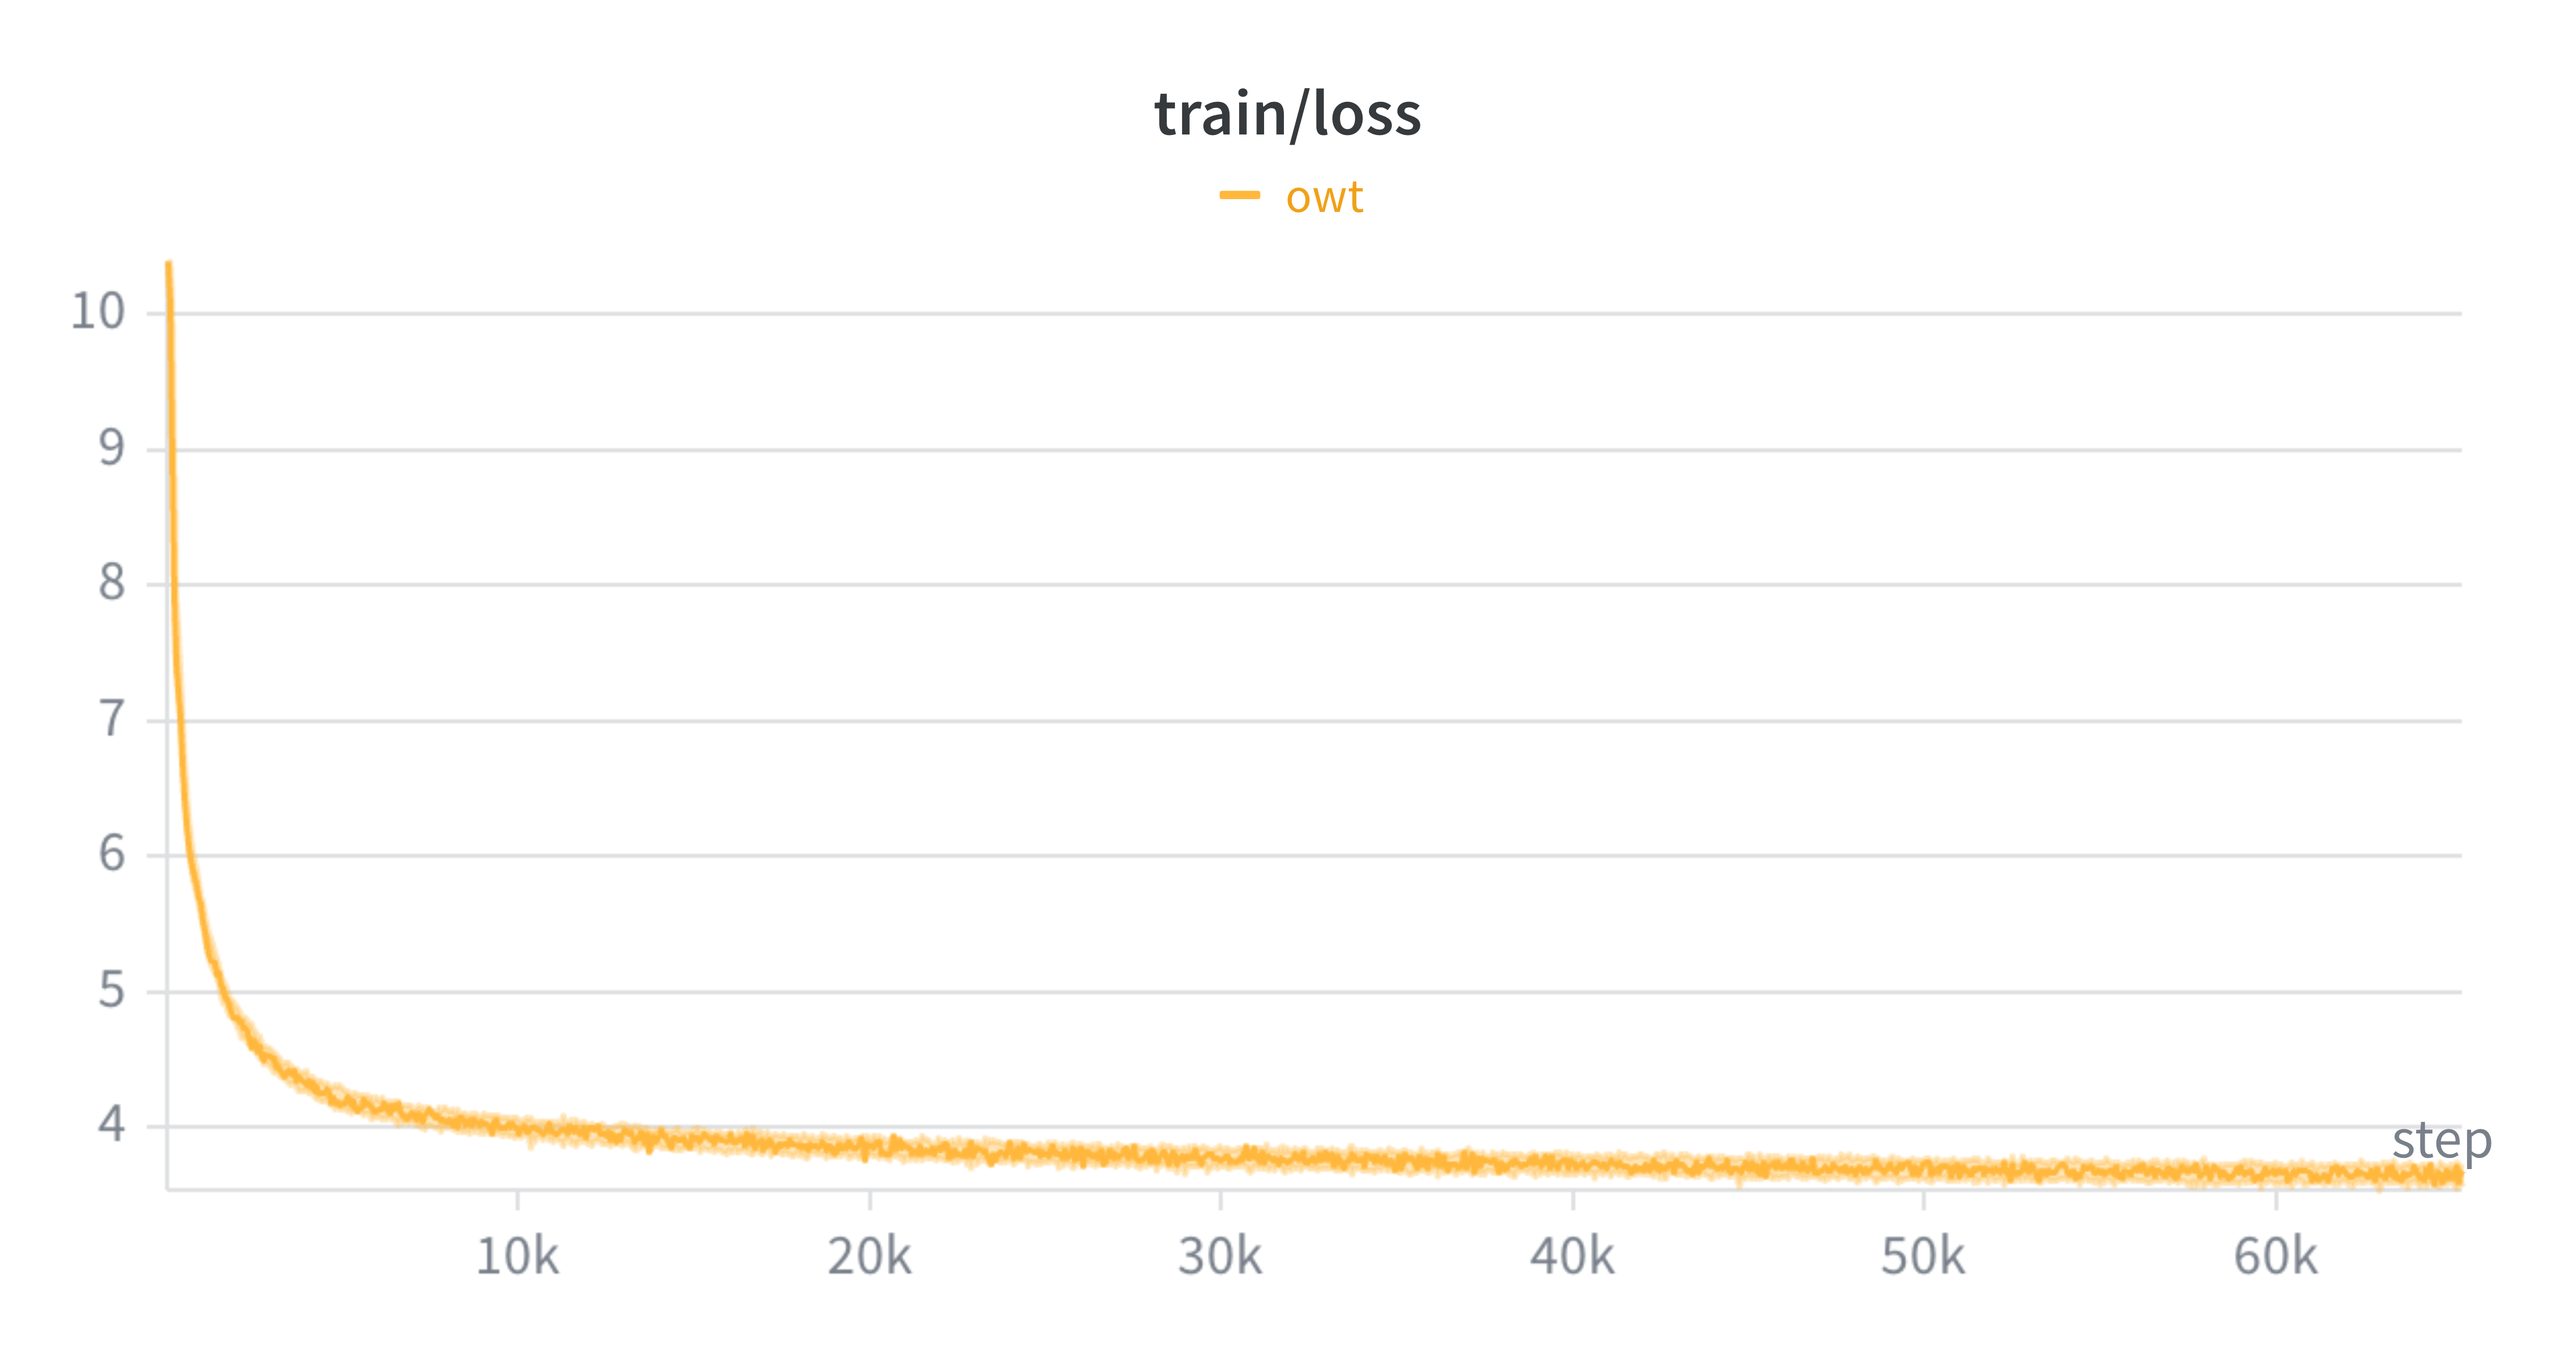
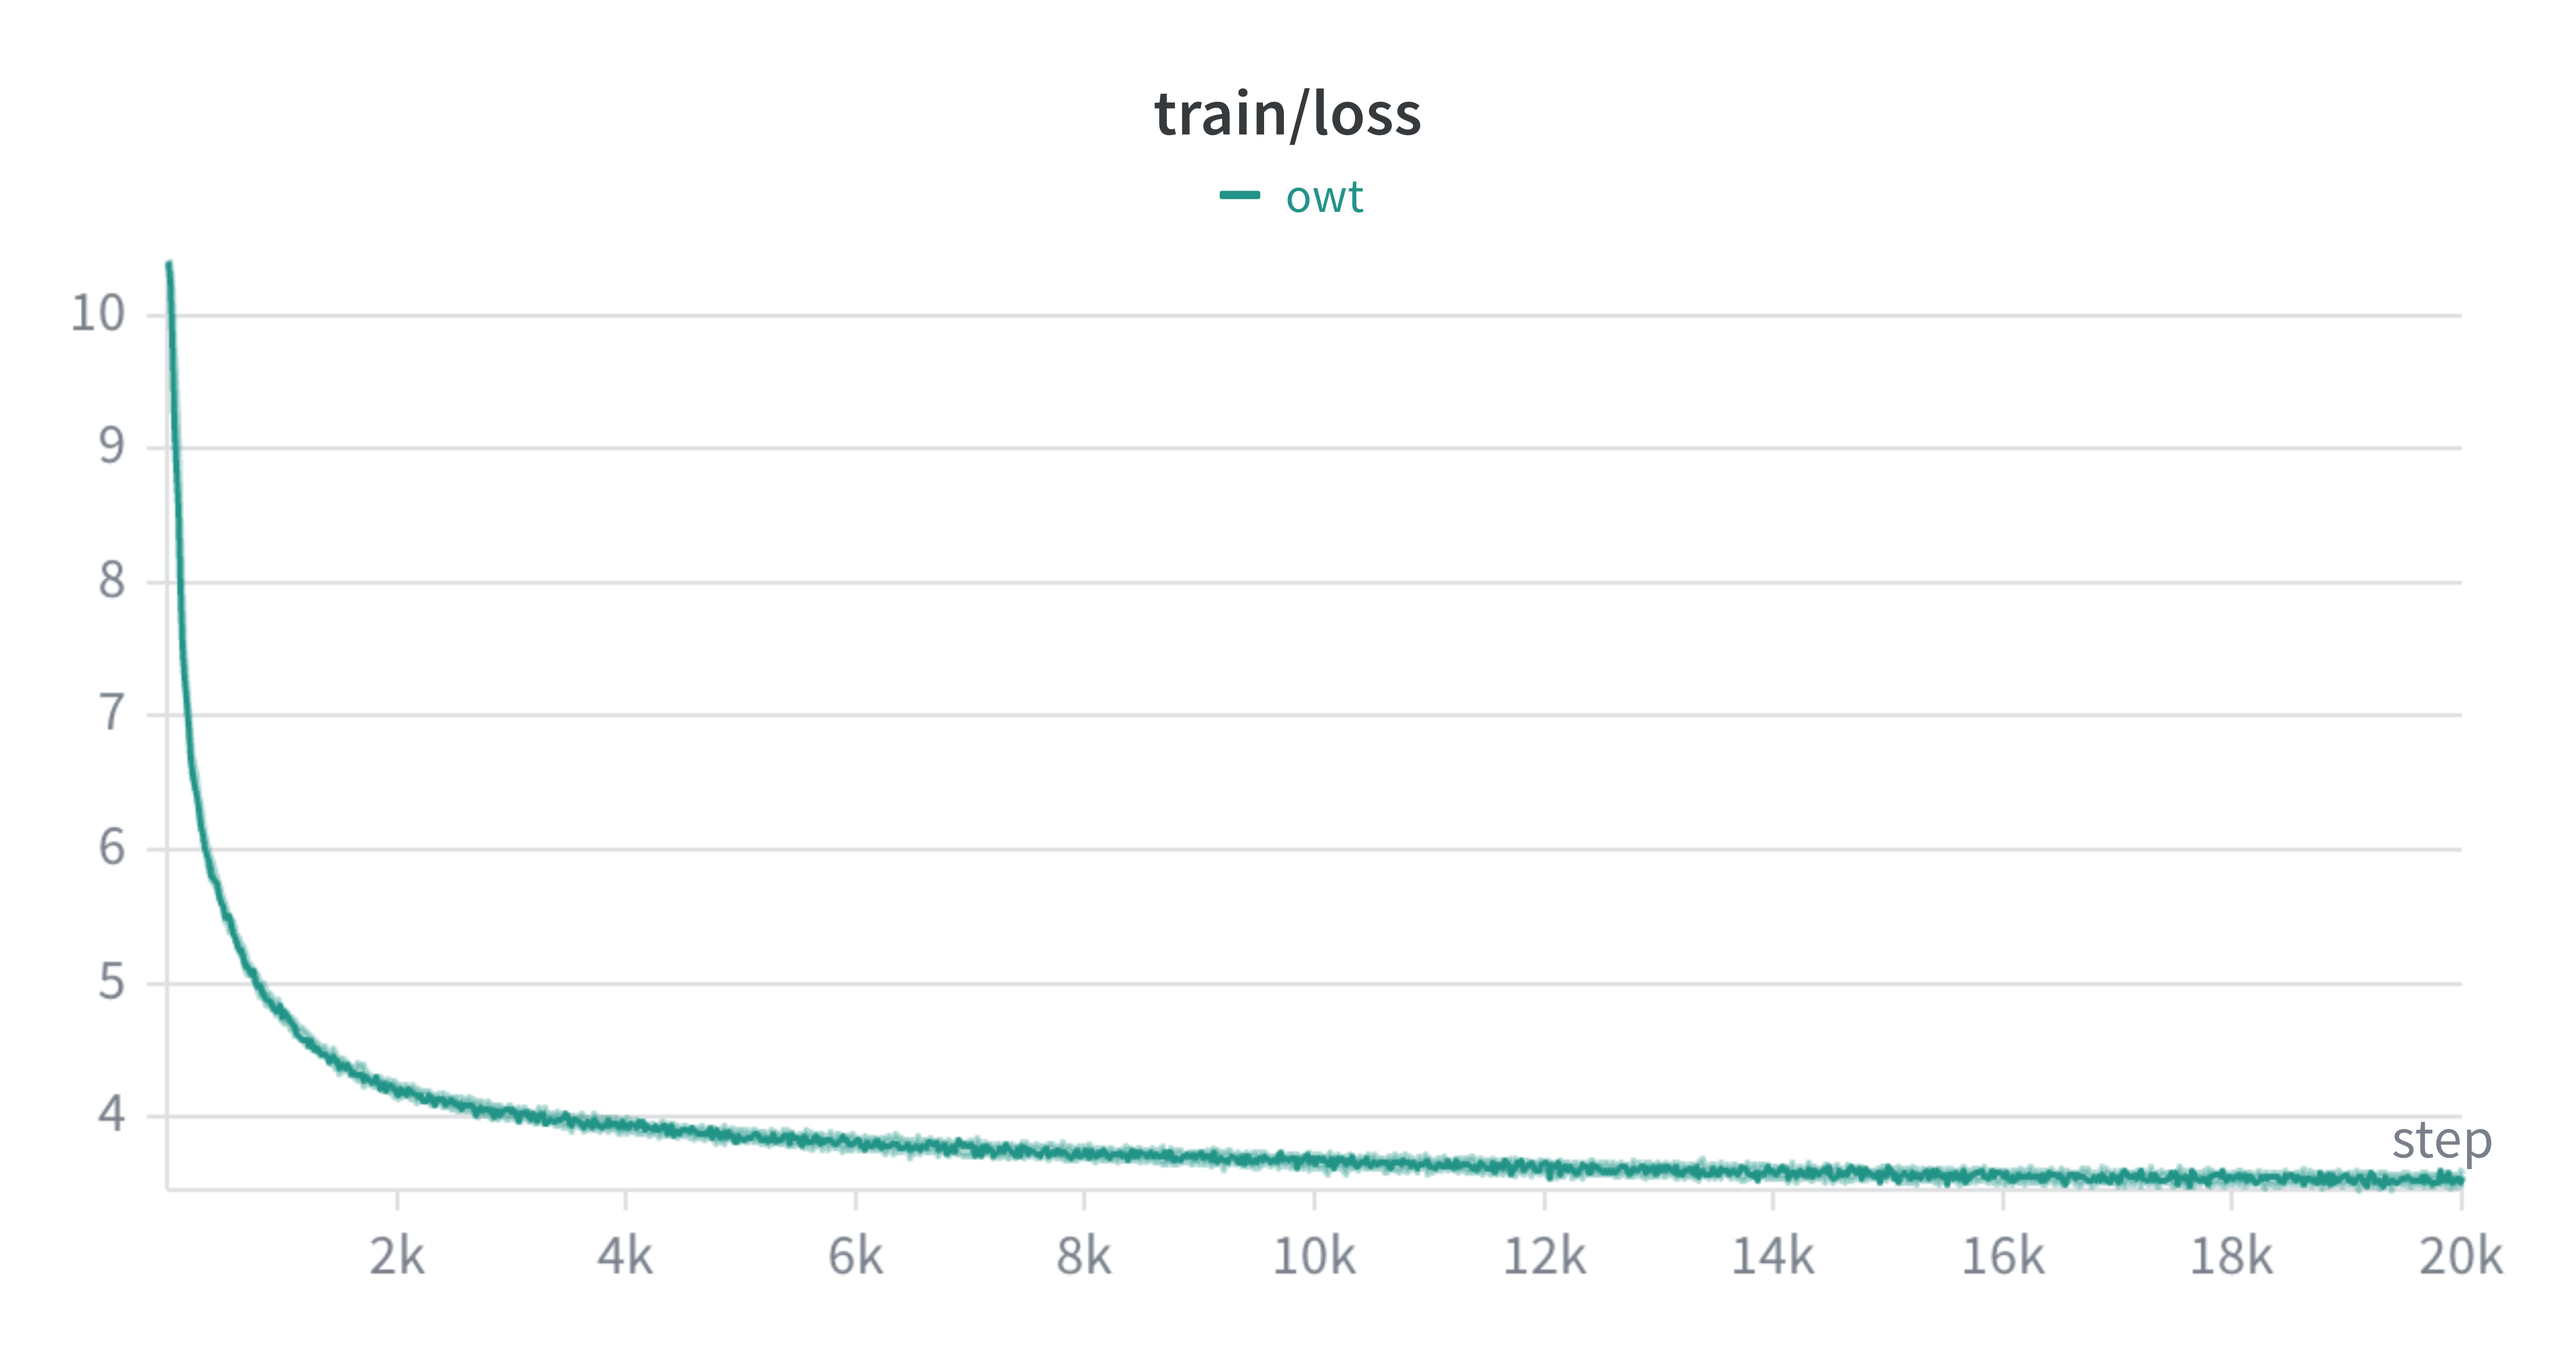
Update leaderboard and README

diff --git a/README.md b/README.md
@@ -1,8 +1,10 @@
 # CS336 Assignment Implementations 
 This repository contains my implementations and explorations of core large language model (LLM) components based on Stanford CS336, with a focus on understanding design tradeoffs and practical constraints for small-scale training.
 
-Assignment 1: completed 05/03, validation loss 3.67 on 100 minutes H100 hours.
+Assignment 1: completed 05/03, validation loss 3.56 on 60 minutes of H100 hours.
+
 Assignment 4:
+
 Assignment 5:
 
 Skipping assignments 2 and 3 to prioritize own design project.
